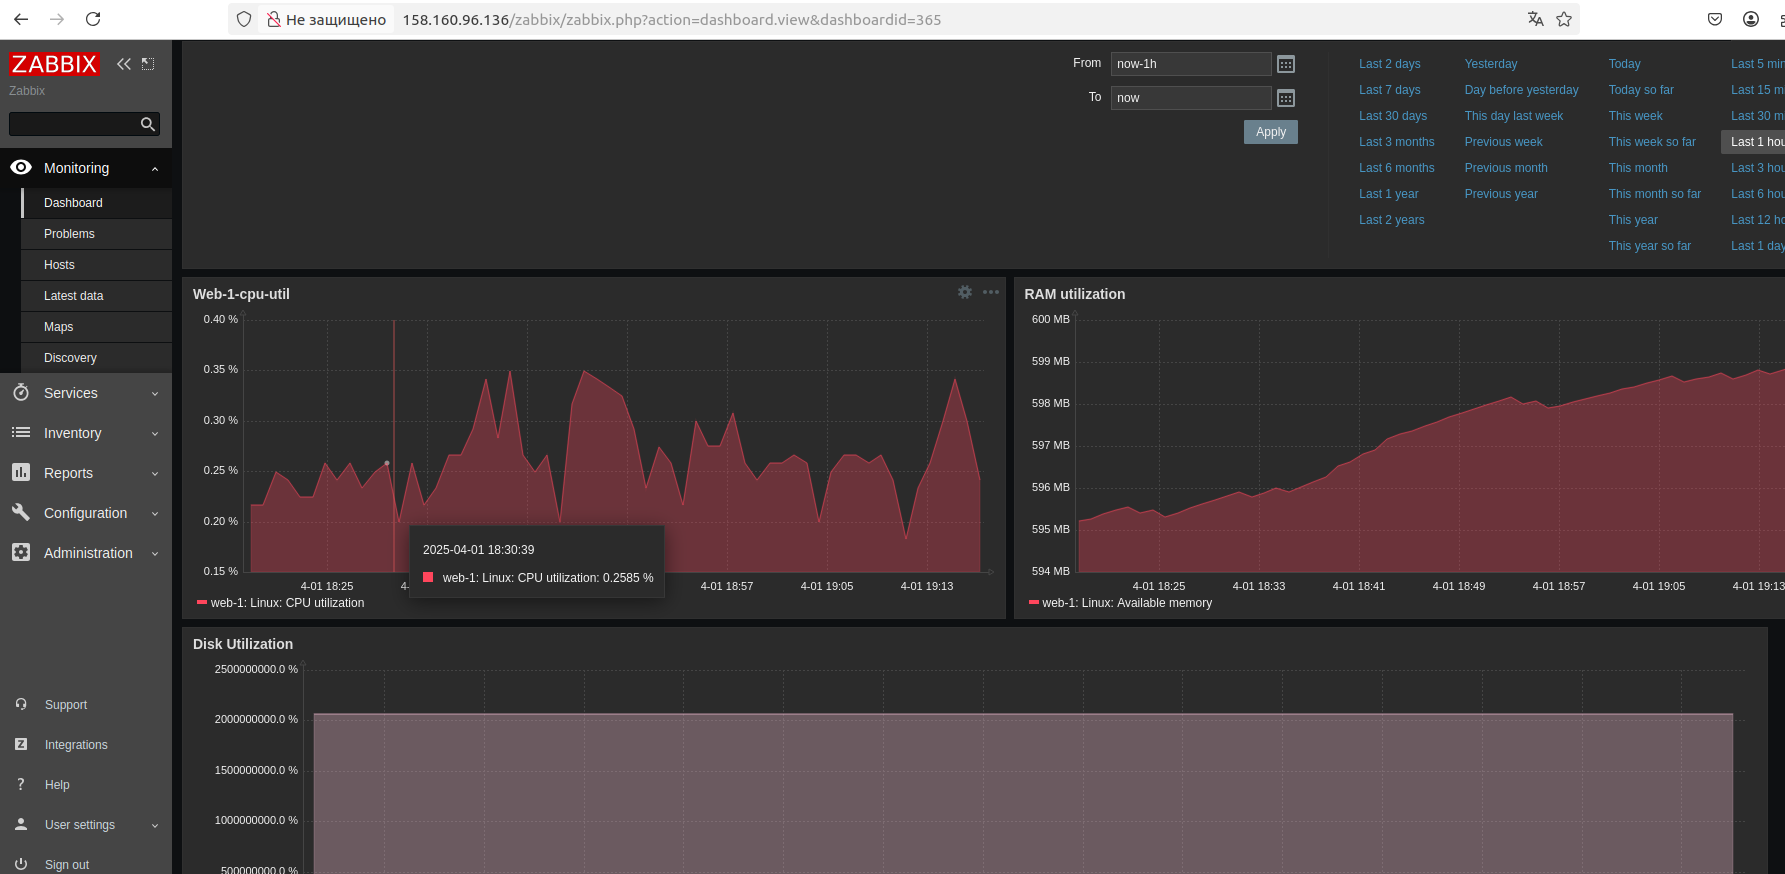
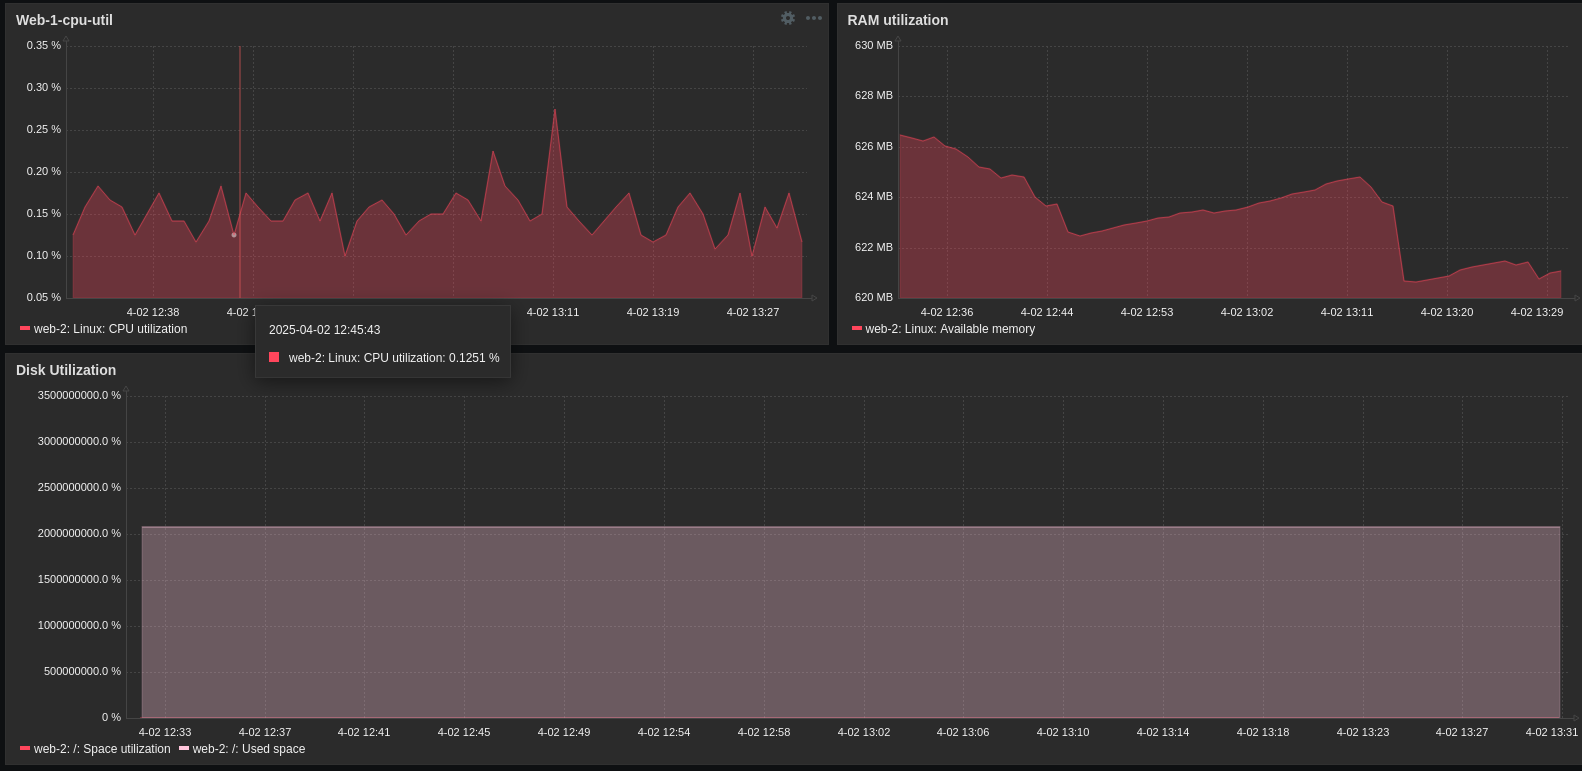
r2

diff --git a/Images and readme/README.MD b/Images and readme/README.MD
@@ -79,9 +79,9 @@
 
 Настройте дешборды с отображением метрик, минимальный набор — по принципу USE (Utilization, Saturation, Errors) для CPU, RAM, диски, сеть, http запросов к веб-серверам. Добавьте необходимые tresholds на соответствующие графики.
 
-site: http://158.160.96.136/zabbix/
-
 ### Решение:
+
+site: http://158.160.96.136/zabbix/
 
 1. Установил Zabbix с помощью [playbook-zabbix_server.yml](../playbook-zabbix_server.yml) и роли [Zabbix](../zabbix)
 2. Настроил агенты на двух веб серверах с nginx спомощью [playbook-zbx-agent.yml](playbook-zbx-agent.yml)
@@ -89,7 +89,9 @@ site: http://158.160.96.136/zabbix/
 ![status zabbux](image-10.png)
 ![hosts](image-11.png)
 ![dashboard](image-3.png)
-![dashboard2](image-4.png)
+![dashWEB1](image-15.png)
+![dash2](image-4.png)
+![dashWEB2](image-16.png)
 
 ### Логи
 Cоздайте ВМ, разверните на ней Elasticsearch. Установите filebeat в ВМ к веб-серверам, настройте на отправку access.log, error.log nginx в Elasticsearch.
